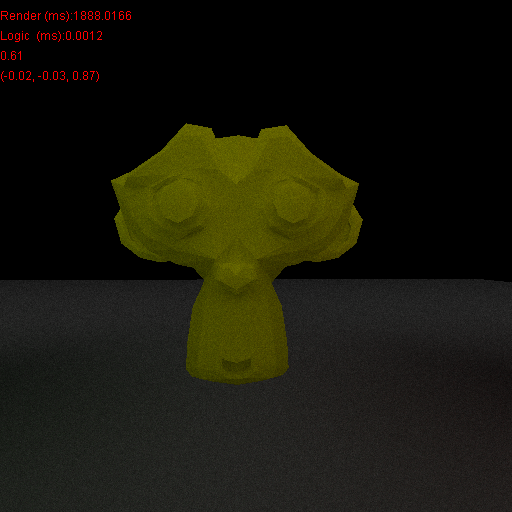
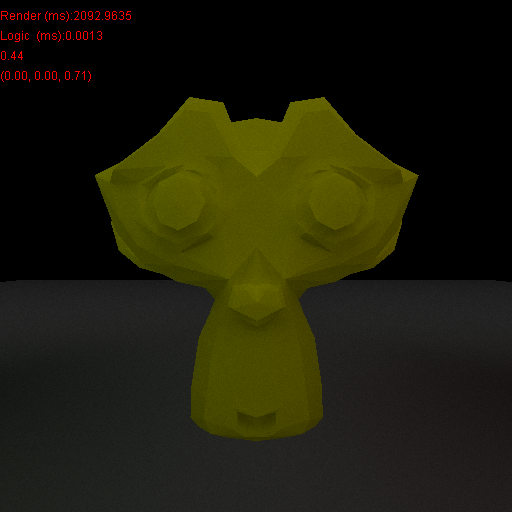
refactored a bit

diff --git a/BVH.java b/BVH.java
@@ -18,12 +18,10 @@ public class BVH {
 		triangles = null;
 	}
 	public BVH(List<Triangle> triangles){
-		System.out.println("Making a bvh with "+triangles.size());
 		bounds = new AABB();
 		bounds.addTriangles(triangles);
 		if (triangles.size() <= MAX_TRIANGLES){
 			this.triangles = triangles;
-			System.out.println("no need to split");
 			return;
 		}
 		double split = (bounds.maxY+bounds.minY)/2;
@@ -71,29 +69,40 @@ public class BVH {
 		return intersection;
 	}
 	public void render(WritableRaster raster, double focalLength, int cx, int cy, double[][] zBuffer, Transform cam) {
-		Vec3 p0 = new Vec3(bounds.maxX, bounds.maxY, bounds.maxZ);
-		Vec3 p1 = new Vec3(bounds.maxX, bounds.maxY, bounds.minZ);
-		Vec3 p2 = new Vec3(bounds.maxX, bounds.minY, bounds.maxZ);
-		Vec3 p3 = new Vec3(bounds.maxX, bounds.minY, bounds.minZ);
+	
+
 		
-		Vec3 p4 = new Vec3(bounds.minX, bounds.maxY, bounds.maxZ);
-		Vec3 p5 = new Vec3(bounds.minX, bounds.maxY, bounds.minZ);
-		Vec3 p6 = new Vec3(bounds.minX, bounds.minY, bounds.maxZ);
-		Vec3 p7 = new Vec3(bounds.minX, bounds.minY, bounds.minZ);
-
-		Ray.render(p0, p1, raster, focalLength, cx, cy, zBuffer, cam);
-		Ray.render(p1, p2, raster, focalLength, cx, cy, zBuffer, cam);
-		Ray.render(p2, p3, raster, focalLength, cx, cy, zBuffer, cam);
-		Ray.render(p3, p0, raster, focalLength, cx, cy, zBuffer, cam);
-
-		Ray.render(p4, p5, raster, focalLength, cx, cy, zBuffer, cam);
-		Ray.render(p5, p6, raster, focalLength, cx, cy, zBuffer, cam);
-		Ray.render(p6, p7, raster, focalLength, cx, cy, zBuffer, cam);
-		Ray.render(p7, p4, raster, focalLength, cx, cy, zBuffer, cam);
-
-		Ray.render(p0, p4, raster, focalLength, cx, cy, zBuffer, cam);
-		Ray.render(p1, p5, raster, focalLength, cx, cy, zBuffer, cam);
-		Ray.render(p2, p6, raster, focalLength, cx, cy, zBuffer, cam);
-		Ray.render(p3, p7, raster, focalLength, cx, cy, zBuffer, cam);
+		if (node0 != null) {
+			node0.render(raster, focalLength, cx, cy, zBuffer, cam);
+		}
+		if (node1 != null) {
+			node1.render(raster, focalLength, cx, cy, zBuffer, cam);
+		}
+		if (true){
+			Vec3 p0 = new Vec3(bounds.maxX, bounds.maxY, bounds.maxZ);
+			Vec3 p1 = new Vec3(bounds.maxX, bounds.maxY, bounds.minZ);
+			Vec3 p2 = new Vec3(bounds.maxX, bounds.minY, bounds.maxZ);
+			Vec3 p3 = new Vec3(bounds.maxX, bounds.minY, bounds.minZ);
+			
+			Vec3 p4 = new Vec3(bounds.minX, bounds.maxY, bounds.maxZ);
+			Vec3 p5 = new Vec3(bounds.minX, bounds.maxY, bounds.minZ);
+			Vec3 p6 = new Vec3(bounds.minX, bounds.minY, bounds.maxZ);
+			Vec3 p7 = new Vec3(bounds.minX, bounds.minY, bounds.minZ);
+			// top face
+			Ray.render(p0, p1, raster, focalLength, cx, cy, zBuffer, cam);
+			Ray.render(p1, p3, raster, focalLength, cx, cy, zBuffer, cam);
+			Ray.render(p3, p2, raster, focalLength, cx, cy, zBuffer, cam);
+			Ray.render(p2, p0, raster, focalLength, cx, cy, zBuffer, cam);
+			// bottom face
+			Ray.render(p4, p5, raster, focalLength, cx, cy, zBuffer, cam);
+			Ray.render(p5, p7, raster, focalLength, cx, cy, zBuffer, cam);
+			Ray.render(p7, p6, raster, focalLength, cx, cy, zBuffer, cam);
+			Ray.render(p6, p4, raster, focalLength, cx, cy, zBuffer, cam);
+			// sides
+			Ray.render(p0, p4, raster, focalLength, cx, cy, zBuffer, cam);
+			Ray.render(p1, p5, raster, focalLength, cx, cy, zBuffer, cam);
+			Ray.render(p2, p6, raster, focalLength, cx, cy, zBuffer, cam);
+			Ray.render(p3, p7, raster, focalLength, cx, cy, zBuffer, cam);
+		}
 	}
 }

diff --git a/RaytracedGame.java b/RaytracedGame.java
@@ -123,7 +123,34 @@ public class RaytracedGame extends Game{
 		for (Point point : env.points){
 			point.render(raster, focalLength, cx, cy, zBuffer, cam);
 		}
+		for (PhysicalObject p : env.physicalObjects){
+			if (p instanceof Mesh mesh){
+				mesh.bounds.render(raster, focalLength, cx, cy, zBuffer, cam);
+			}
+		}
 		return image;
+	}
+	private BufferedImage renderRaytraced(){
+		WritableRaster raster = nextFrame.getRaster();
+		int ts = 4;
+		List<Thread> threads = new ArrayList<>();
+		for (int x = 0; x < ts; x++){
+			for (int y = 0; y < ts; y++){
+				final int x_f = x;
+				final int y_f = y;
+				Thread t = new Thread(() -> {
+					raytraceRange(width*x_f/ts, height*y_f/ts, width*(x_f+1)/ts, height*(y_f+1)/ts, raster, 4);
+				});
+				t.start();
+				threads.add(t);
+			}
+		}
+		try {
+			for (Thread t : threads){
+				t.join();
+			}
+		} catch (InterruptedException e){}
+		return nextFrame;
 	}
 	@Override
 	public void generateFrame(){
@@ -135,28 +162,7 @@ public class RaytracedGame extends Game{
 			} catch (IOException e) {}
 		}
 		if (raytrace){
-			//nextFrame = new BufferedImage(width, height, BufferedImage.TYPE_INT_RGB);
-			WritableRaster raster = nextFrame.getRaster();
-
-			clearZBuffer();
-			int ts = 6;
-			List<Thread> threads = new ArrayList<>();
-			for (int x = 0; x < ts; x++){
-				for (int y = 0; y < ts; y++){
-					final int x_f = x;
-					final int y_f = y;
-					Thread t = new Thread(() -> {
-						raytraceRange(width*x_f/ts, height*y_f/ts, width*(x_f+1)/ts, height*(y_f+1)/ts, raster);
-					});
-					t.start();
-					threads.add(t);
-				}
-			}
-			try {
-				for (Thread t : threads){
-					t.join();
-				}
-			} catch (InterruptedException e){}
+			nextFrame = renderRaytraced();
 		} else {
 			nextFrame = renderRasterized();
 		}
@@ -165,13 +171,10 @@ public class RaytracedGame extends Game{
 		long renderTime = System.nanoTime()-renderStart;
 		g2d.setColor(Color.RED);
 		g2d.drawString("Render (ms):"+renderTime/1_000_000.0,0,20);
-		g2d.drawString("Logic  (ms):"+logicTime/1_000_000.0,0,40);
-		
-		g2d.drawString(String.format("%2.2f",Math.random()), 0, 60);
-		g2d.drawString(cam.translation.toString(), 0, 80);
+		g2d.drawString("Samples: "+pixelBuffer[0][0].samples, 0, 40);
 	}
 	
-	private void raytraceRange(int x1, int y1, int x2, int y2, WritableRaster raster){
+	private void raytraceRange(int x1, int y1, int x2, int y2, WritableRaster raster, int samples){
 		Random random = ThreadLocalRandom.current();
 		Vec3 origin = cam.translation;
 		for (int x = x1; x < x2; x += 1){
@@ -183,7 +186,6 @@ public class RaytracedGame extends Game{
 				
 				Pixel pixel = pixelBuffer[y][x];
 				int[] color = new int[3];
-				int samples = 4;
 				for (int i = 0; i < samples; i++){
 					double[] col = Ray.trace(origin, vector, env, 10, random);
 					color[0] += (int) (255 * col[0]);

diff --git a/RasterizedGame.java b/RasterizedGame.java
@@ -74,8 +74,7 @@ public class RasterizedGame extends Game{
 		}
 	}
 	
-	@Override
-	public void updateFrame(Graphics2D g2d){
+	public void generateFrame(){
 		long renderStart = System.nanoTime();
 		BufferedImage image = new BufferedImage(width, height, BufferedImage.TYPE_INT_RGB);
 		WritableRaster raster = image.getRaster();
@@ -97,8 +96,7 @@ public class RasterizedGame extends Game{
 			point.render(raster, focalLength, cx, cy, zBuffer, cam);
 		}
 		new Point(new Vec3(0, 0, 0), 1).render(raster, focalLength, cx, cy, zBuffer, cam);
-		
-		g2d.drawImage(image, 0, 0, null);
+		Graphics2D g2d = image.createGraphics();
 		long renderTime = System.nanoTime()-renderStart;
 		g2d.drawString("Render (ms):"+renderTime/1_000_000.0,0,20);
 		g2d.drawString("Logic  (ms):"+logicTime/1_000_000.0,0,40);

diff --git a/Main.java b/Main.java
@@ -8,7 +8,7 @@ import java.util.concurrent.locks.LockSupport;
 
 public class Main {
 	public static void main(String[] args){
-		String model = "monkey";
+		String model = "cube";
 		double fps = 0;
 		int size = 512;
 		if (args.length > 0){
